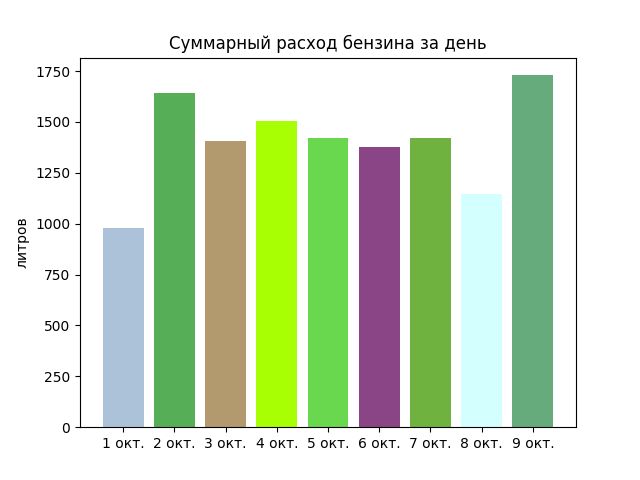
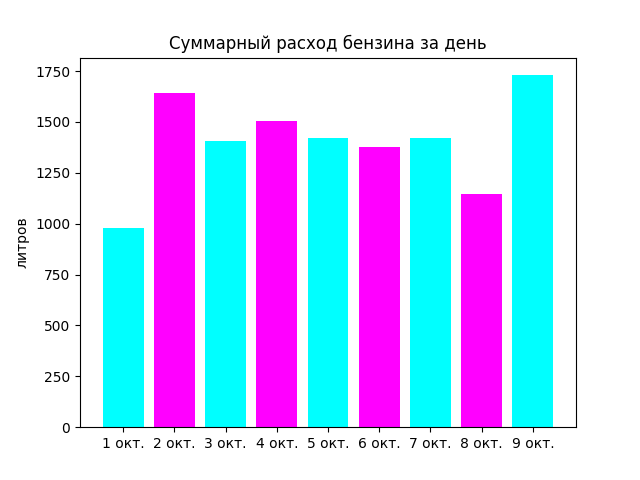
do

diff --git a/studies/do/mpl2.py b/studies/do/mpl2.py
@@ -74,7 +74,6 @@
 #     plt.show()
 
 
-import matplotlib as mpl
 import matplotlib.pyplot as plt
 import matplotlib.colors as colors
 import csv
@@ -82,10 +81,11 @@ import numpy as np
 
 colors_list = list(colors._colors_full_map.values())
 
-with open('task191.csv', 'r',encoding='utf-8') as csv_file: # 1 - суммарный расход бензина за день
+with open('task191.csv', 'r', encoding='utf-8') as csv_file:  # 1 - суммарный расход бензина за день
     data = csv.DictReader(csv_file, delimiter=';')
 
-    days = ['1 окт.', '2 окт.', '3 окт.', '4 окт.', '5 окт.', '6 окт.', '7 окт.', '8 окт.', '9 окт.']
+    days = ['1 окт.', '2 окт.', '3 окт.', '4 окт.',
+            '5 окт.', '6 окт.', '7 окт.', '8 окт.', '9 окт.']
     gasoline_consumption_per_day = [0] * 9
     for line in data:
         date = line['Дата']
@@ -93,22 +93,27 @@ with open('task191.csv', 'r',encoding='utf-8') as csv_file: # 1 - суммарн
         temp = int(line['Расход бензина'])
         gasoline_consumption_per_day[day] += int(line['Расход бензина'])
 
-with open('task191.csv', 'r',encoding='utf-8') as csv_file: # 2 - сколько всего доставлено груза в каждый населенный пункт
+# 2 - сколько всего доставлено груза в каждый населенный пункт
+with open('task191.csv', 'r', encoding='utf-8') as csv_file:
     data = csv.DictReader(csv_file, delimiter=';')
 
-    destinations = ['Липки', 'Орехово', 'Осинки', 'Березки', 'Дубки', 'Вязово', 'Буково', 'Сосново']
-    cargo_to_destinations = {'Липки' : 0, 'Орехово' : 0, 'Осинки' : 0, 'Березки' : 0, 'Дубки' : 0, 'Вязово' : 0, 'Буково' : 0, 'Сосново' : 0}
+    destinations = ['Липки', 'Орехово', 'Осинки',
+                    'Березки', 'Дубки', 'Вязово', 'Буково', 'Сосново']
+    cargo_to_destinations = {'Липки': 0, 'Орехово': 0, 'Осинки': 0,
+                             'Березки': 0, 'Дубки': 0, 'Вязово': 0, 'Буково': 0, 'Сосново': 0}
     for line in data:
         destination = line['Пункт назначения']
         cargo_to_destinations[destination] += int(line['Масса груза'])
 
 # 2 - распределение доставленного груза в населенные пункты
 # 3 - сколько груза отправлено из населенных пунктов и сколько в них поступило груза
-with open('task191.csv', 'r',encoding='utf-8') as csv_file:
+with open('task191.csv', 'r', encoding='utf-8') as csv_file:
     data = csv.DictReader(csv_file, delimiter=';')
 
-    cargo_to_destinations = {'Липки' : 0, 'Орехово' : 0, 'Осинки' : 0, 'Березки' : 0, 'Дубки' : 0, 'Вязово' : 0, 'Буково' : 0, 'Сосново' : 0}
-    cargo_from_destinations = {'Липки' : 0, 'Орехово' : 0, 'Осинки' : 0, 'Березки' : 0, 'Дубки' : 0, 'Вязово' : 0, 'Буково' : 0, 'Сосново' : 0}
+    cargo_to_destinations = {'Липки': 0, 'Орехово': 0, 'Осинки': 0,
+                             'Березки': 0, 'Дубки': 0, 'Вязово': 0, 'Буково': 0, 'Сосново': 0}
+    cargo_from_destinations = {'Липки': 0, 'Орехово': 0, 'Осинки': 0,
+                               'Березки': 0, 'Дубки': 0, 'Вязово': 0, 'Буково': 0, 'Сосново': 0}
 
     for line in data:
         destination = line['Пункт назначения']
@@ -119,25 +124,27 @@ with open('task191.csv', 'r',encoding='utf-8') as csv_file:
 fig, ax = plt.subplots()
 ax.set_ylabel('литров')
 ax.set_title('Суммарный расход бензина за день')
-ax.bar(days, gasoline_consumption_per_day, color=colors_list)
+ax.bar(days, gasoline_consumption_per_day, color=['cyan','magenta'])
 
 plt.savefig('chart1.png')
 
 fig, ax = plt.subplots()
 ax.set_title('Распределение доставленного груза по населенным пунктам')
-ax.pie([cargo_to_destinations[key] for key in cargo_to_destinations.keys()], labels=destinations, colors=colors_list, autopct='%1.1f%%')
+ax.pie([cargo_to_destinations[key] for key in cargo_to_destinations.keys()],
+       labels=destinations, colors=['r','g','b','m','c','y','orange','grey'], autopct='%1.1f%%')
 ax.axis('equal')
 
 plt.savefig('chart2.png')
 
 fig, ax = plt.subplots()
-ax.set_title('Сколько груза отправлено из населенных пунктов\nи сколько доставлено в них')
+ax.set_title(
+    'Сколько груза отправлено из населенных пунктов\nи сколько доставлено в них')
 g1 = [cargo_from_destinations[key] for key in cargo_from_destinations.keys()]
 g2 = [cargo_to_destinations[key] for key in cargo_to_destinations.keys()]
 width = 0.3
 x = np.arange(len(cargo_to_destinations.keys()))
-rects1 = ax.bar(x - width/2, g1, width, color = 'g', label='Отправлено')
-rects2 = ax.bar(x + width/2, g2, width, color = 'm', label='Получено')
+rects1 = ax.bar(x - width/2, g1, width, color='g', label='Отправлено')
+rects2 = ax.bar(x + width/2, g2, width, color='m', label='Получено')
 ax.set_xticks(x)
 ax.set_xticklabels(cargo_to_destinations.keys())
 ax.legend()

diff --git a/studies/do/mpl1.py b/studies/do/mpl1.py
@@ -1,13 +1,15 @@
 import matplotlib.pyplot as plt
 import numpy as np
 
-x = np.linspace(0, 2*np.pi, 100)
+fig, ax = plt.subplots()
+
+x = np.linspace(0.0, 2 * np.pi, 100)
 y1 = np.sin(x)
 y2 = np.cos(x)
 
-fig, ax = plt.subplots()
-ax.plot(x, y1)
-ax.scatter(x, y2, marker = '+', color = 'red')
+ax.plot(x, y1, linestyle = '-', color = 'b')
+ax.plot(x, y2, linestyle = '', marker = '+', color = 'r')
 
+plt.legend(['sin(x)', 'cos(x)'])
+plt.savefig('chart.png')
 plt.show()
-
